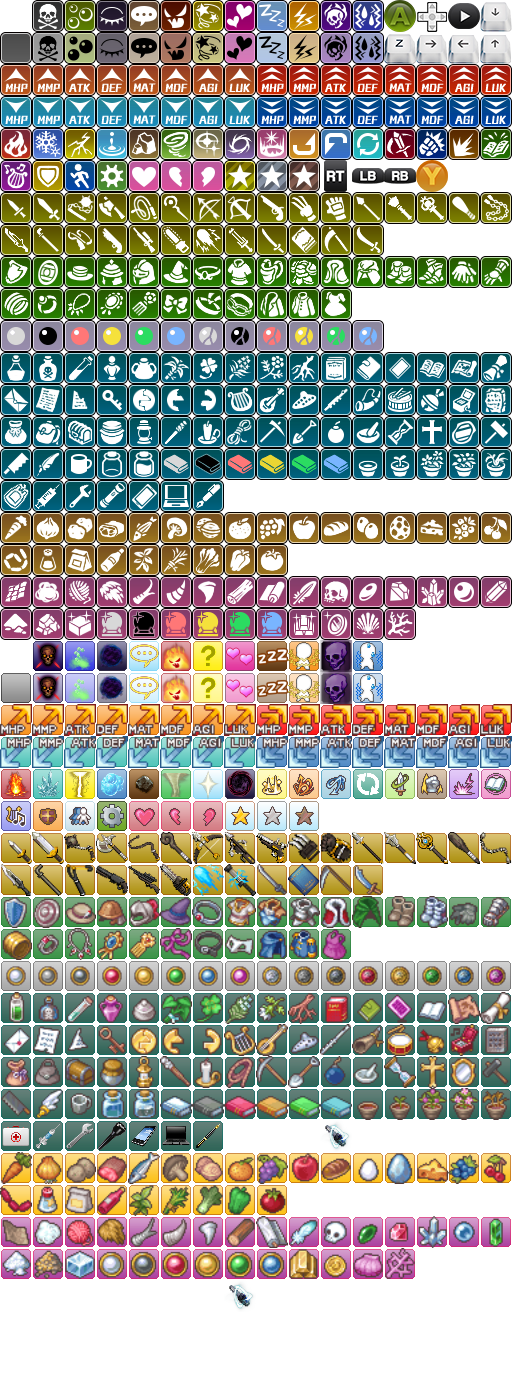
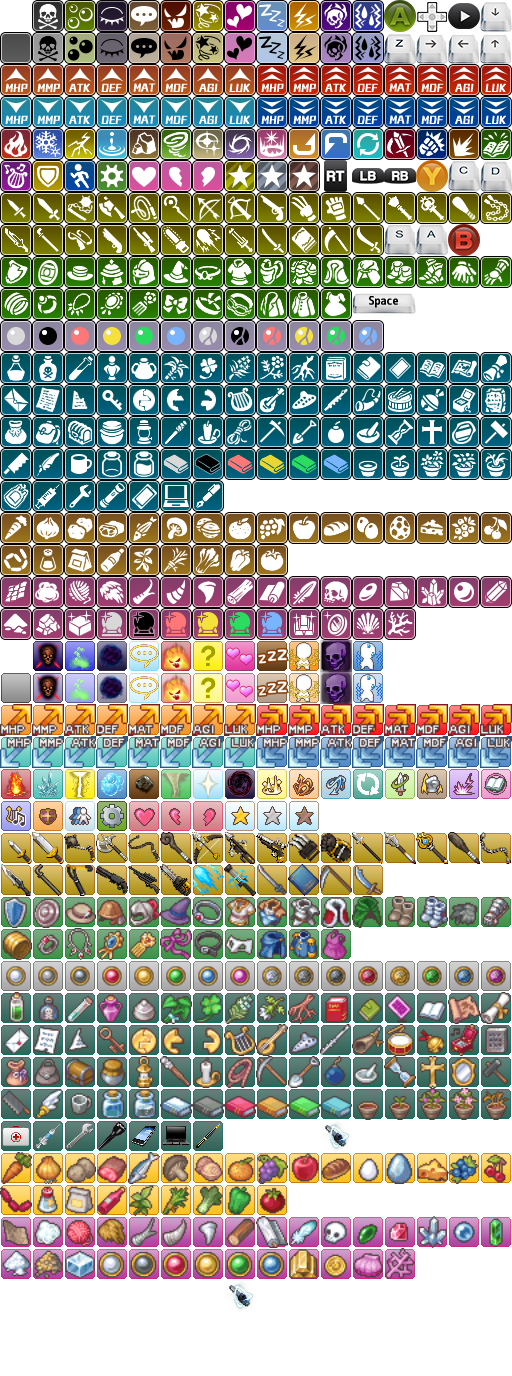
Keyboard support in tutorials. Closes #114. Closes #99. Closes #41.

Changed region(s): [[0.75, 0.0938, 1.0, 0.1875], [0.6875, 0.2188, 0.8125, 0.25]]

diff --git a/js/plugins/TAL_ImToast.js b/js/plugins/TAL_ImToast.js
@@ -323,7 +323,7 @@ Game_Timer.prototype.update = function(sceneActive)
 
     if (Input.isTriggered('rest')&&this.getFrames()>1800&&SceneManager._scene.constructor == Scene_Map)
     {
-        $gameParty.allMembers()[0].gainHp(Math.round($gameParty.allMembers()[0].mhp*.15));
+        $gameParty.allMembers()[0].gainHp(Math.round($gameParty.allMembers()[0].mhp*.12));
         $gameTimer._frames -= 1800;
         $gamePlayer.requestAnimation(165);
     }
